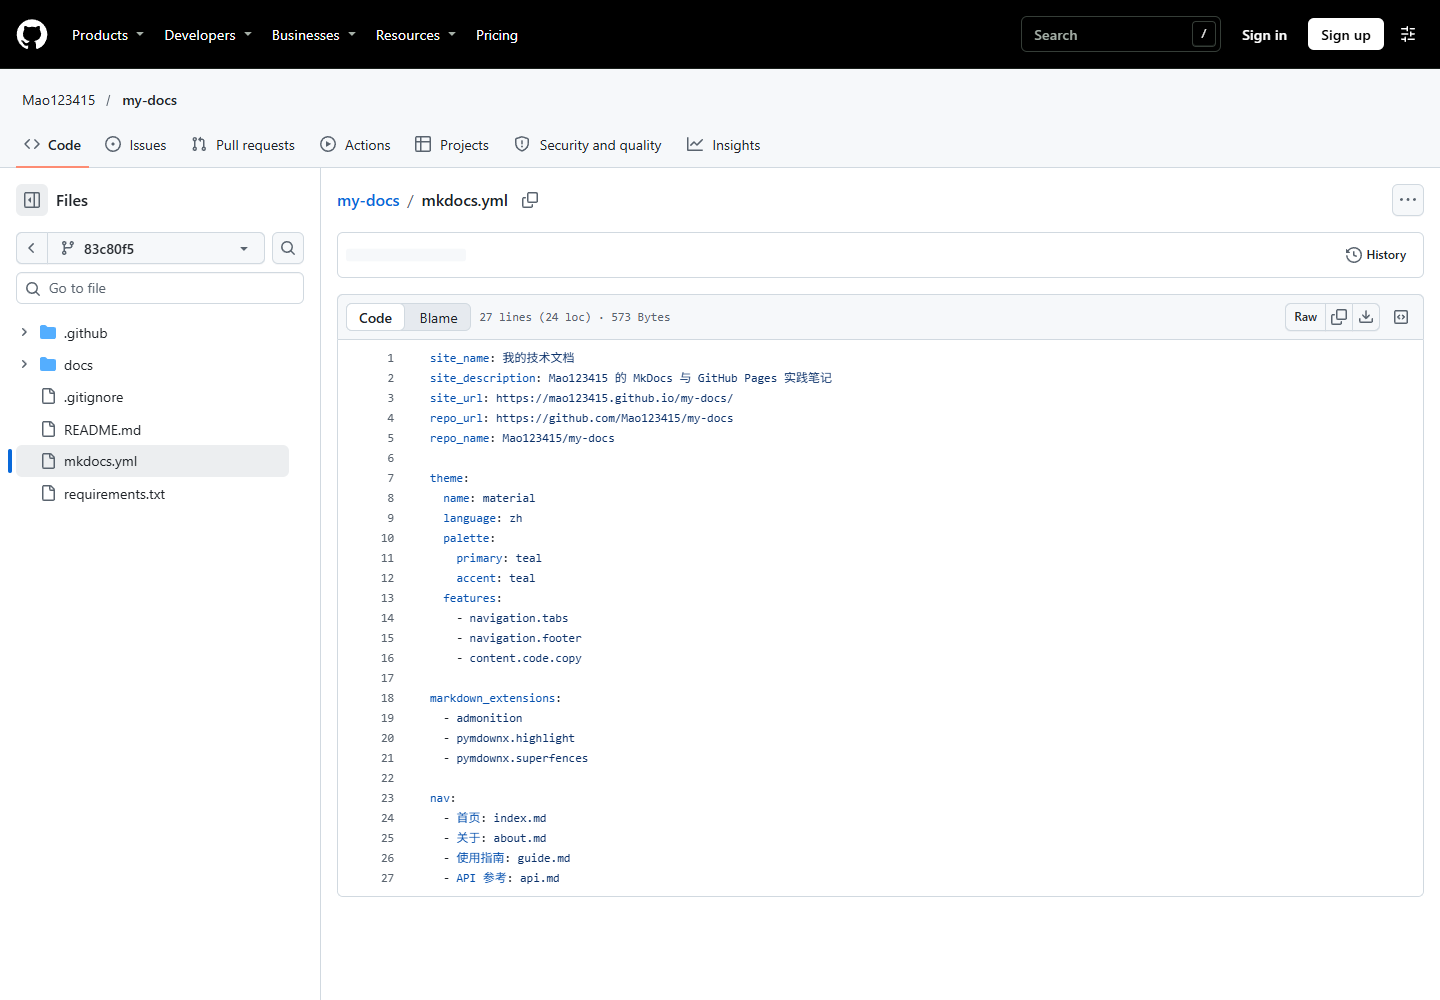
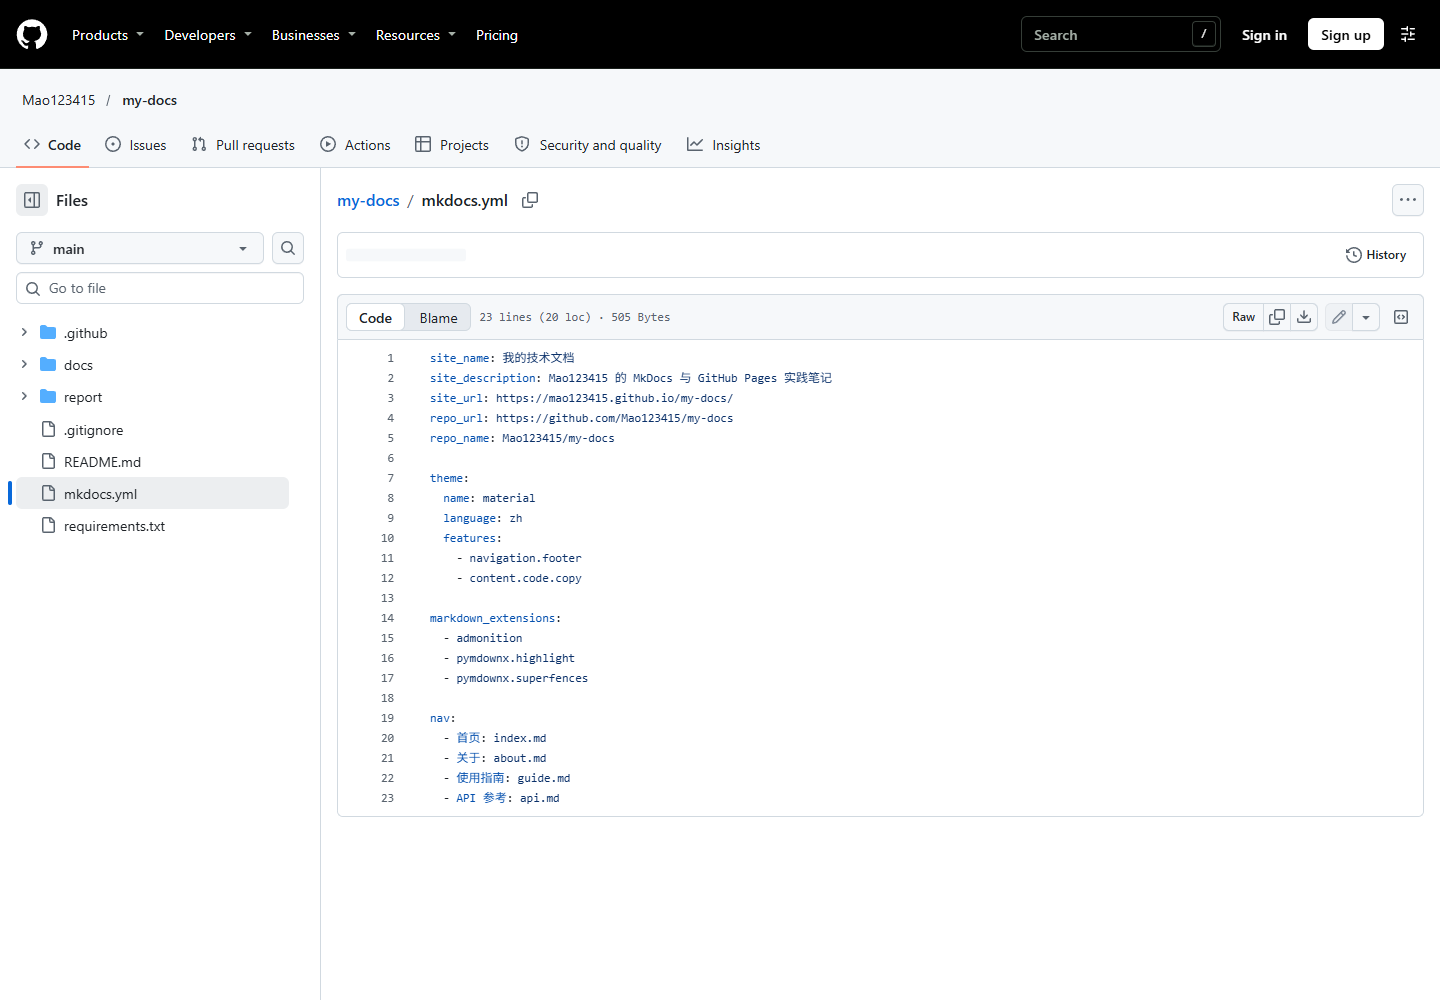
替换实验报告中的旧版页面截图

diff --git a/report/README.md b/report/README.md
@@ -19,13 +19,13 @@
 
 在 `docs/` 中分别编写首页、关于、使用指南和 API 参考。首页的表格提供了页面入口，指南和 API 参考包含带语法高亮的示例。`mkdocs.yml` 的 `nav` 决定四页的名称和顺序，其中的文件路径以 `docs/` 为基准。`site/` 是构建时生成的目录，通过 `.gitignore` 排除。
 
-![GitHub 文件树和 mkdocs.yml](images/02-project-config.png)
+![当前项目的 GitHub 文件树和 mkdocs.yml](images/02-project-config.png)
 
 ### 2.3 本地严格构建与预览
 
 在 Python 3.12.16 虚拟环境中安装 `requirements.txt` 中的依赖，运行 `python -m mkdocs build --strict`，命令成功退出。通过 `python -m mkdocs serve` 在 `http://127.0.0.1:8000/my-docs/` 预览，首页、关于、指南和 API 参考的本地地址均返回 HTTP 200。
 
-![MkDocs Material 的本地预览](images/03-local-preview.png)
+![当前版式的 API 参考本地预览](images/03-local-preview.png)
 
 ### 2.4 设置 Pages 发布来源
 
@@ -42,11 +42,11 @@
 
 ![首次运行中 build 与 deploy 均成功](images/05-first-deploy.png)
 
-### 2.6 检查首次部署的网站和四页导航
+### 2.6 检查公开网站和四页导航
 
-首次部署后，通过 [公开站点](https://mao123415.github.io/my-docs/) 核对首页、关于、使用指南和 API 参考。四页均返回 HTTP 200。首页提供了通往其他三页的链接，关于页展示了流程表格，使用指南和 API 参考分别展示了命令与响应代码块。
+首次部署和版式更新后，均通过 [公开站点](https://mao123415.github.io/my-docs/) 核对了首页、关于、使用指南和 API 参考。四页均返回 HTTP 200。下图为当前关于页，左侧可跳转到其他页面，右侧可跳转到本页各节。
 
-![首次发布后的 GitHub Pages 首页](images/06-public-site.png)
+![当前 GitHub Pages 关于页及两侧导航](images/06-public-site.png)
 
 ### 2.7 第二次推送与自动更新
 
@@ -57,7 +57,7 @@
 
 ![第二次推送触发的成功运行](images/07-second-deploy.png)
 
-![公开首页出现第二次推送添加的提示](images/08-updated-site.png)
+当前首页也展示了这条提示，见[第 2.8 节的首页截图](#28-当前版式与部署)。
 
 ### 2.8 当前版式与部署
 
